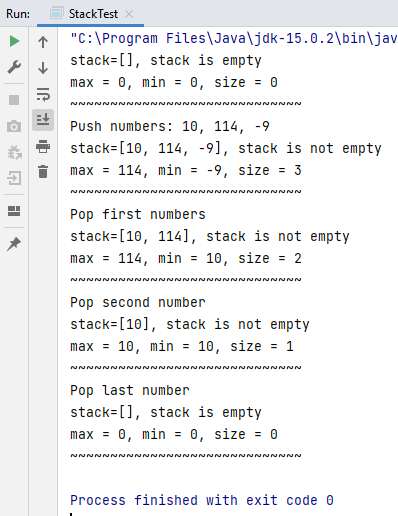
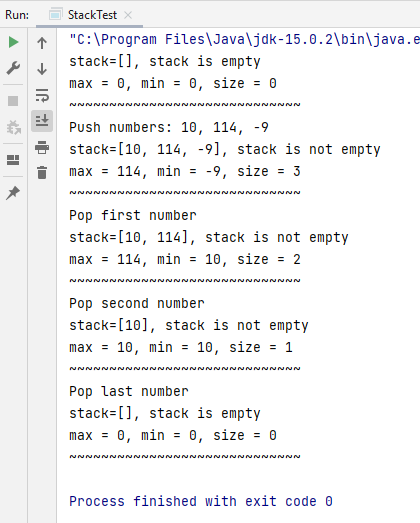
A little edit class and change the picture

Changed region(s): [[0.0, 0.0, 1.0, 1.0]]

diff --git a/src/Extra/Stack/Stack.java b/src/Extra/Stack/Stack.java
@@ -75,7 +75,7 @@ class StackTest {
         stack.push(-9);
         System.out.println(stack);
 
-        System.out.println("Pop first numbers");
+        System.out.println("Pop first number");
         stack.pop();
         System.out.println(stack);
 
